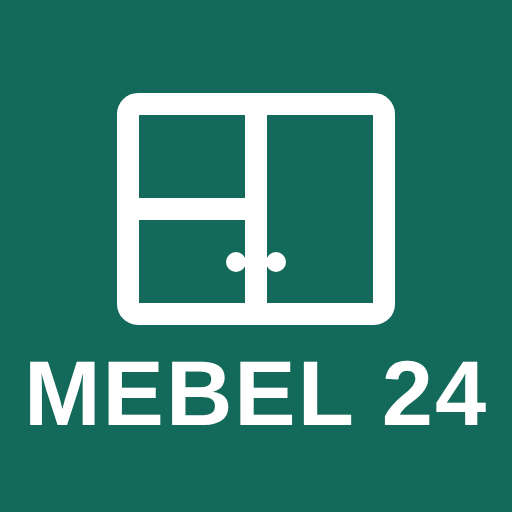
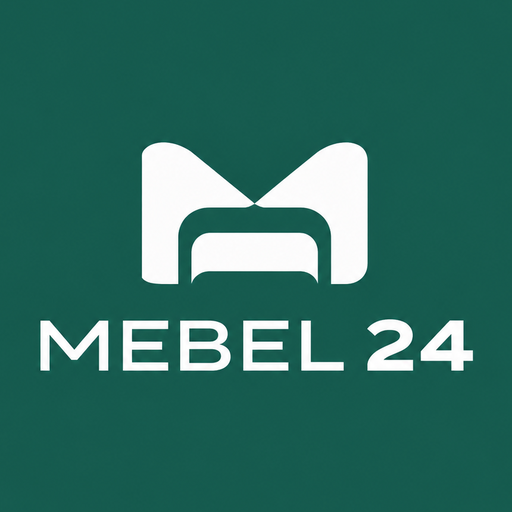
Yangi Mebel 24 logotipi va kattaroq ilova belgisi

Changed region(s): [[0.0312, 0.1562, 0.9688, 0.8438]]

diff --git a/app.js b/app.js
@@ -161,7 +161,7 @@ function shellHTML(){
   const nav = NAV.filter(n => navAllowed(n[0]));
   const cnt = {vazifalar: myTasks().length, loyihalar: ST.projects.filter(p => p.status === "faol").length};
   const cur = UI.route.startsWith("p-") ? "loyihalar" : UI.route;
-  const side = `<aside class="side"><div class="brand"><span class="mark">${ic("loyihalar", 18)}</span><div><b>${esc(APP)}</b><small>${esc(ST.settings.company || "Loyihalar boshqaruvi")}</small></div></div>
+  const side = `<aside class="side"><div class="brand"><span class="mark"><img src="icons/logo-mark.png" alt="Mebel 24"></span><div><b>${esc(APP)}</b><small>${esc(ST.settings.company || "Loyihalar boshqaruvi")}</small></div></div>
     <button class="btn pri big" data-act="newProject" style="width:100%;justify-content:center">${ic("plus", 18)} Yangi loyiha</button>
     <nav>${nav.map(([k, n]) => `<a href="#${k}" class="${cur === k ? "on" : ""}">${ic(k)}<span>${esc(n)}</span>${cnt[k] ? `<em>${cnt[k]}</em>` : ""}</a>`).join("")}</nav>
     <div class="me"><div><b>${esc(ST.me.name)}</b><small>${esc(ROLES[role()]?.n || "")}</small></div><button class="iconbtn" data-act="logout" title="Chiqish" aria-label="Chiqish">${ic("out")}</button></div></aside>`;
@@ -182,7 +182,7 @@ function loginHTML(){
   const m = UI.loginMode;
   const demo = B.mode === "local" && !boot ? `<div class="demo-logins"><div class="small muted">Sinov uchun tayyor loginlar (bosing):</div>${(UI.loginMode === "admin" ? [["admin","123456","Administrator"]] : [["dilshod","111111","Sotuvchi"],["jasur","222222","O'lchovchi"],["nodira","333333","Texnolog"],["bekzod","444444","Menejer"],["rustam","555555","Yig'uvchi"]]).map(([l, pw, r]) => `<button class="chip" data-act="demoFill" data-l="${l}" data-p="${pw}">${l} · ${r}</button>`).join("")}</div>` : "";
   return `<div class="login"><div class="login-card">
-    <div class="brand big"><span class="mark">${ic("loyihalar", 22)}</span><div><b>${esc(APP)}</b><small>${esc(ST.settings?.company || "Mebel loyihalari boshqaruvi")}</small></div></div>
+    <div class="brand big"><span class="mark"><img src="icons/logo-mark.png" alt="Mebel 24"></span><div><b>${esc(APP)}</b><small>${esc(ST.settings?.company || "Mebel loyihalari boshqaruvi")}</small></div></div>
     ${boot ? `<h1>Birinchi administrator</h1><p class="muted">Tizimda hali hech kim yo'q. Administrator hisobini yarating: keyin u xodimlarni qo'shadi.</p>
       <form id="bootForm" class="stack"><div class="fld"><label for="b-name">Ismingiz</label><input class="inp" id="b-name" name="name" required autocomplete="name"></div>
       <div class="fld"><label for="b-login">Login</label><input class="inp" id="b-login" name="login" required autocomplete="username" autocapitalize="none" placeholder="masalan: admin"></div>

diff --git a/index.html b/index.html
@@ -5,14 +5,14 @@
 <meta name="viewport" content="width=device-width,initial-scale=1,viewport-fit=cover">
 <title>Mebel 24</title>
 <link rel="manifest" href="manifest.webmanifest">
-<link rel="icon" type="image/png" href="icons/icon-192.png">
+<link rel="icon" type="image/png" href="icons/favicon-32.png">
 <link rel="apple-touch-icon" href="icons/apple-touch-icon.png">
 <meta name="apple-mobile-web-app-capable" content="yes">
 <meta name="mobile-web-app-capable" content="yes">
 <meta name="apple-mobile-web-app-title" content="Mebel 24">
 <meta name="apple-mobile-web-app-status-bar-style" content="default">
 <style>:root{padding-top:env(safe-area-inset-top,0px);padding-bottom:env(safe-area-inset-bottom,0px)}body{margin:0}[hidden]{display:none!important}</style>
-<meta name="theme-color" content="#13695a">
+<meta name="theme-color" content="#165a4d">
 <link rel="preconnect" href="https://fonts.googleapis.com">
 <link rel="stylesheet" href="https://fonts.googleapis.com/css2?family=Barlow+Condensed:wght@500;600;700&family=IBM+Plex+Mono:wght@500&family=IBM+Plex+Sans:wght@400;500;600;700&display=swap">
 <link rel="stylesheet" href="styles.css">

diff --git a/sw.js b/sw.js
@@ -1,7 +1,7 @@
 // Mebel 24: ilova fayllari keshda saqlanadi, internet sekin yoki yo'q bo'lsa ham tez ochiladi.
 // Ma'lumotlar (Supabase) keshlanmaydi: ular har doim serverdan olinadi.
-const CACHE = "mebel24-v1";
-const FILES = ["./", "index.html", "styles.css", "config.js", "vendor/supabase.js", "backend.js", "seed.js", "app.js", "manifest.webmanifest", "icons/icon-192.png", "icons/icon-512.png", "icons/apple-touch-icon.png"];
+const CACHE = "mebel24-v2";
+const FILES = ["./", "index.html", "styles.css", "config.js", "vendor/supabase.js", "backend.js", "seed.js", "app.js", "manifest.webmanifest", "icons/icon-192.png", "icons/icon-512.png", "icons/apple-touch-icon.png", "icons/logo-mark.png"];
 self.addEventListener("install", e => { e.waitUntil(caches.open(CACHE).then(c => c.addAll(FILES)).then(() => self.skipWaiting())); });
 self.addEventListener("activate", e => { e.waitUntil(caches.keys().then(ks => Promise.all(ks.filter(k => k !== CACHE).map(k => caches.delete(k)))).then(() => self.clients.claim())); });
 self.addEventListener("fetch", e => {

diff --git a/styles.css b/styles.css
@@ -51,8 +51,9 @@ p{margin:6px 0}
 
 /* Qobiq */
 .brand{display:flex;gap:10px;align-items:center}
-.brand .mark{width:36px;height:36px;border-radius:9px;background:var(--accent);color:var(--accent-ink);display:grid;place-items:center;flex:none}
-.brand.big .mark{width:44px;height:44px;border-radius:11px}
+.brand .mark{width:40px;height:40px;border-radius:10px;background:#165a4d;color:#fff;display:grid;place-items:center;flex:none;overflow:hidden}
+.brand .mark img{width:100%;height:100%;display:block}
+.brand.big .mark{width:56px;height:56px;border-radius:14px}
 .brand b{font-family:var(--f-display);font-size:19px;display:block;line-height:1.1}
 .brand small{color:var(--muted);font-size:12px}
 .shell{display:grid;grid-template-columns:248px minmax(0,1fr);min-height:100vh}
